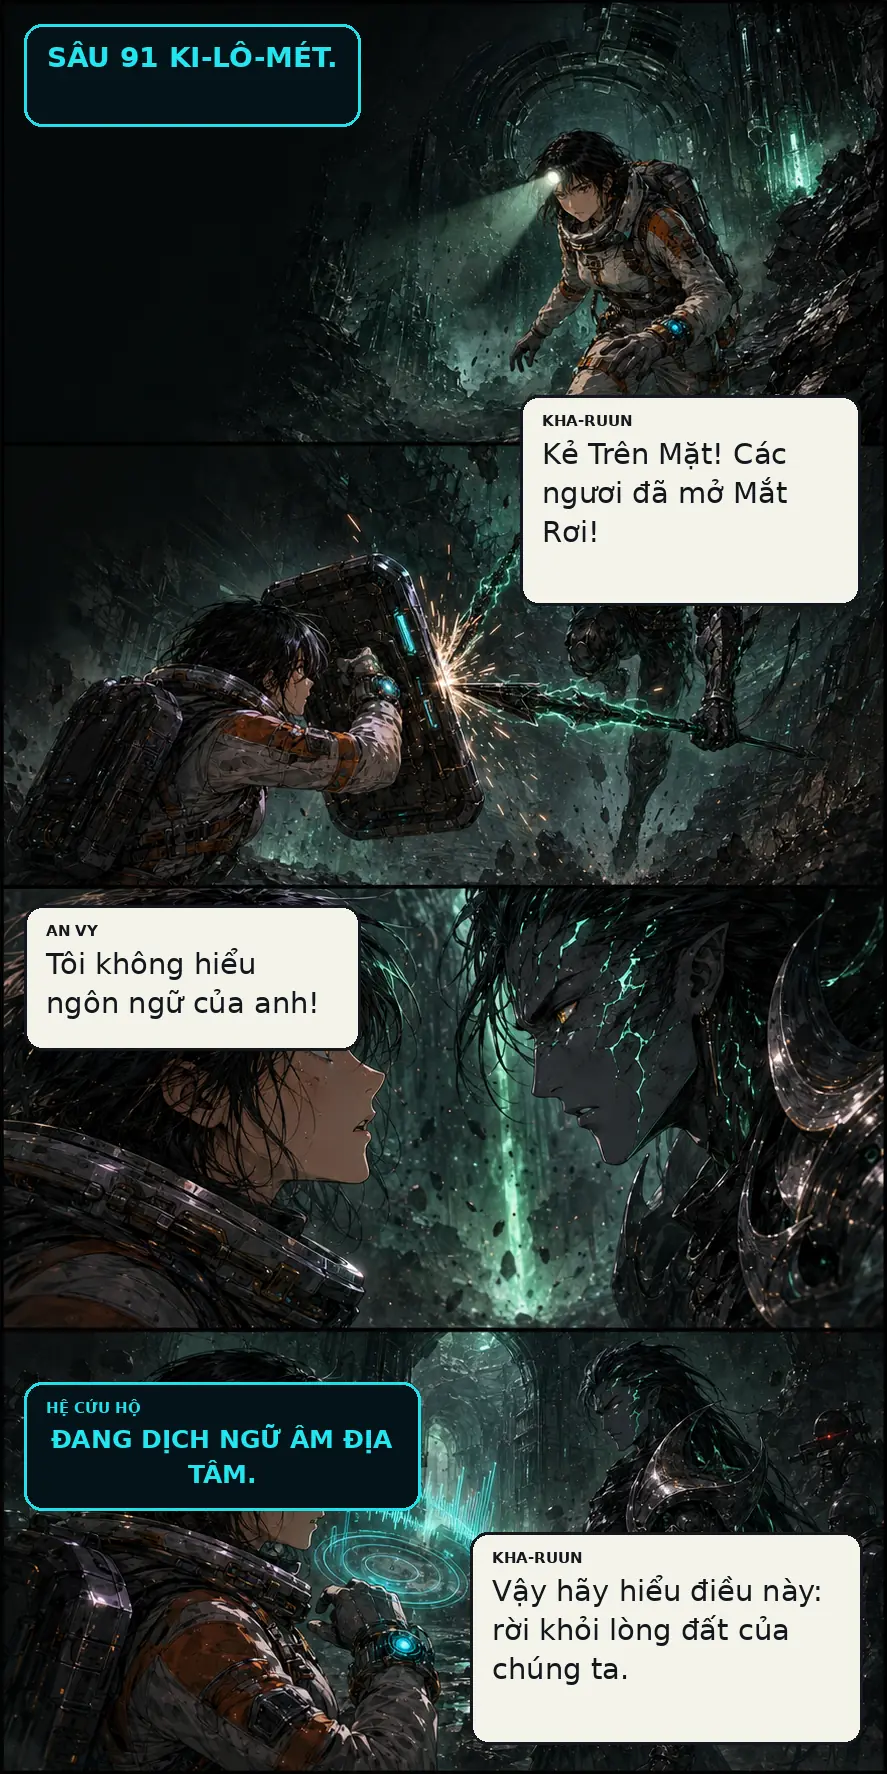
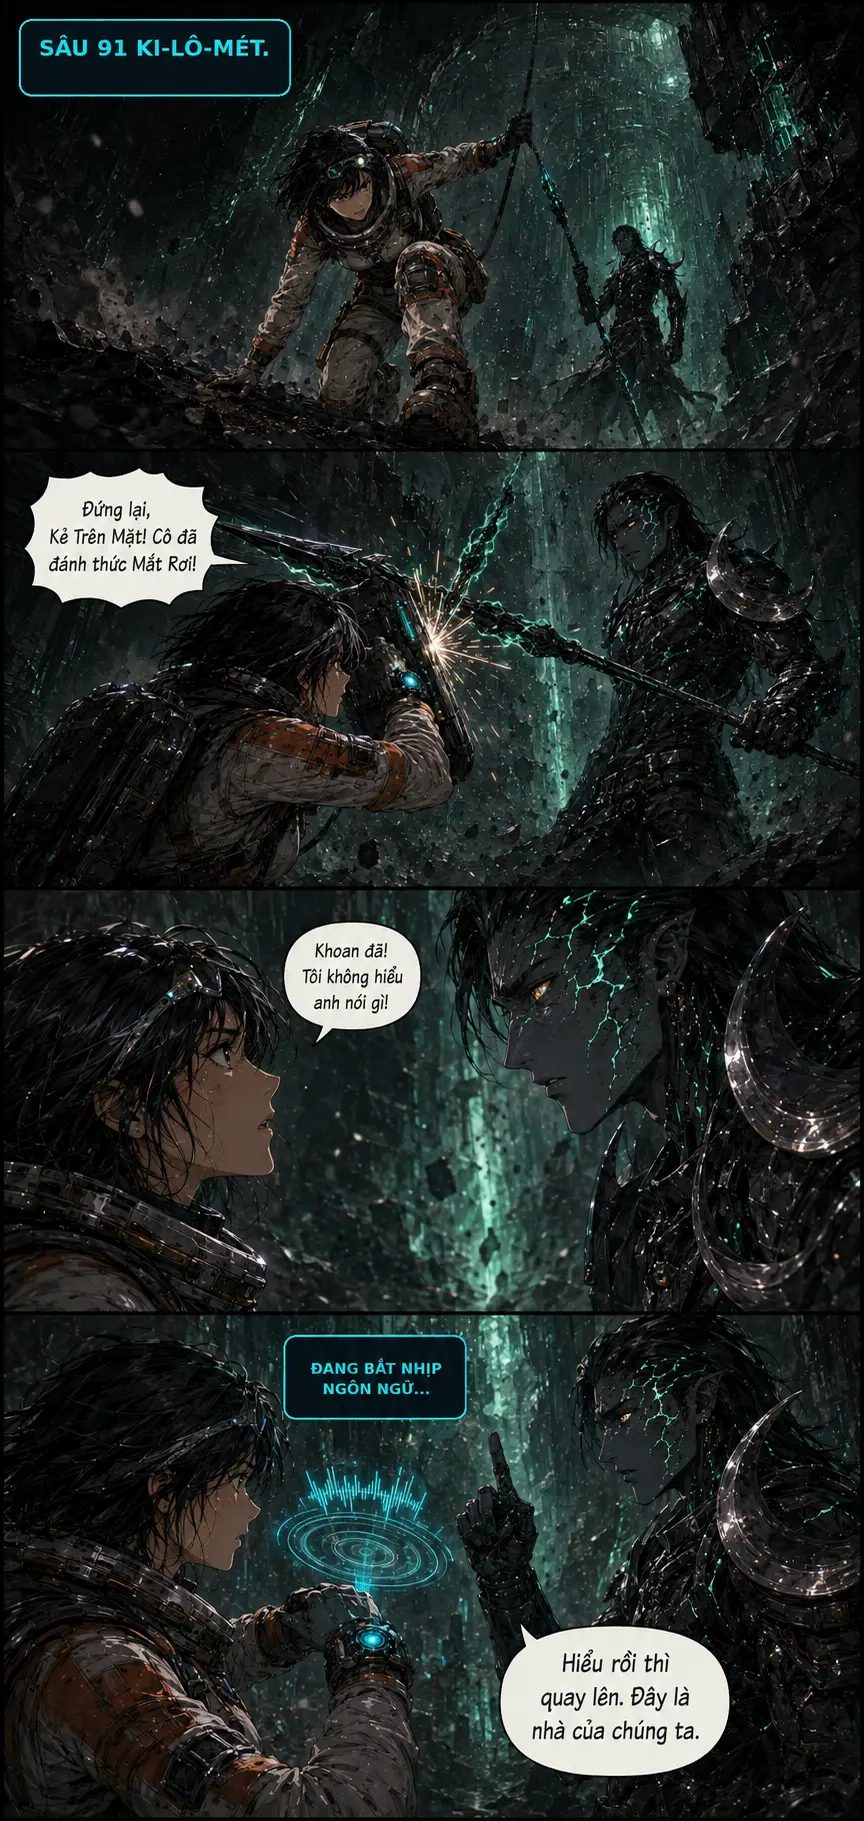
Làm tự nhiên thoại trang 3-4 Vết Thủng 2237

diff --git a/vet-thung-2237/story-data.js b/vet-thung-2237/story-data.js
@@ -5,8 +5,8 @@ const STORY = {
   pages: [
     {number: 1, image: 'assets/pages/page-01.webp?v=dialogue-20260811', title: 'Thứ rơi ngoài bản đồ sao', alt: 'Thiên thể Mắt Rơi xuyên qua thành phố năm 2237 và An Vy gọi Trung tâm'},
     {number: 2, image: 'assets/pages/page-02.webp?v=dialogue-20260811', title: 'Ba nhịp', alt: 'An Vy bất chấp lệnh dừng và nghe ba nhịp từ dưới hố sâu'},
-    {number: 3, image: 'assets/pages/page-03.webp', title: 'Kẻ Trên Mặt', alt: 'An Vy chạm trán chiến binh Kha-Ruun'},
-    {number: 4, image: 'assets/pages/page-04.webp', title: 'Bầu trời thứ hai', alt: 'Kha-Ruun đưa An Vy nhìn thấy Nham Cung'},
+    {number: 3, image: 'assets/pages/page-03.webp?v=dialogue-20260811-p34', title: 'Kẻ Trên Mặt', alt: 'An Vy chạm trán Kha-Ruun ở độ sâu 91 ki-lô-mét'},
+    {number: 4, image: 'assets/pages/page-04.webp?v=dialogue-20260811-p34', title: 'Bầu trời thứ hai', alt: 'Kha-Ruun cứu An Vy trước khi Nham Cung hiện ra'},
     {number: 5, image: 'assets/pages/page-05.webp', title: 'Nham Cung báo động', alt: 'An Vy và Kha-Ruun bị đưa ra trước Hội Đồng Nham'},
     {number: 6, image: 'assets/pages/page-06.webp', title: 'Lệnh xuyên vỏ', alt: 'Chỉ huy Bách kích hoạt đầu đạn địa tầng trên mặt đất'},
     {number: 7, image: 'assets/pages/page-07.webp', title: 'Ký ức trong đá', alt: 'An Vy và Kha-Ruun nhìn thấy ký ức Mắt Rơi được phóng khỏi Nham Cung'},

diff --git a/vet-thung-2237/index.html b/vet-thung-2237/index.html
@@ -75,7 +75,7 @@
     </nav>
   </section>
 
-  <script src="story-data.js?v=dialogue-20260811"></script>
+  <script src="story-data.js?v=dialogue-20260811-p34"></script>
   <script src="app.js"></script>
 </body>
 </html>

diff --git a/vet-thung-2237/docs/qa-log.md b/vet-thung-2237/docs/qa-log.md
@@ -33,7 +33,16 @@
 - Đã bỏ nhãn tên người nói khỏi bong bóng; đuôi thoại và ngữ cảnh khung tranh xác định người đang nói.
 - Đã đối chiếu chính tả, dấu tiếng Việt, thứ tự sự kiện, màu trang phục và thiết bị cứu hộ cyan của An Vy.
 
+## Audit thoại tự nhiên trang 3–4 — 11/08/2026
+
+- Đã thay mới trang 3 “Kẻ Trên Mặt” và trang 4 “Bầu trời thứ hai” bằng ảnh gen hoàn chỉnh cùng bong bóng thoại tiếng Việt.
+- Kha-Ruun nói ngắn theo tâm thế người đang bảo vệ quê hương; An Vy phản ứng trực tiếp sau khi bị chặn và được cứu.
+- Đã bỏ nhãn tên, hộp thoại kiểu giao diện và các câu giải thích mang giọng báo cáo.
+- Đã giữ Kha-Ruun ở tỷ lệ người cao, gầy khỏe, khuôn mặt thanh, mắt hổ phách, vân xanh lục và giáp vai lưỡi liềm.
+- Đã giữ thiết bị cyan trên cổ tay phải An Vy và chuyển cảnh liên tục từ lần tiếp xúc đầu tiên sang toàn cảnh Nham Cung.
+- Đã đối chiếu sáu câu thoại/lời dẫn trang 4 và năm mục chữ trang 3; không phát hiện sai dấu hoặc chữ bị cắt.
+
 ## Trạng thái
 
 - Chương 1 hoàn tất: 12/12 trang.
-- Lượt audit tiếp theo tiếp tục làm mềm thoại và thay trang 3–4 theo chuẩn bong bóng thoại mới.
+- Lượt audit tiếp theo tiếp tục làm mềm thoại và thay trang 5–6 theo chuẩn bong bóng thoại mới.

diff --git a/vet-thung-2237/chapters/chuong-01.md b/vet-thung-2237/chapters/chuong-01.md
@@ -17,18 +17,20 @@
 
 ### Trang 3 — Kẻ Trên Mặt
 
-- Kha-Ruun: “Kẻ Trên Mặt! Các ngươi đã mở Mắt Rơi!”
-- An Vy: “Tôi không hiểu ngôn ngữ của anh!”
-- Hệ cứu hộ: “Đang dịch ngữ âm địa tâm.”
-- Kha-Ruun: “Vậy hãy hiểu điều này: rời khỏi lòng đất của chúng ta.”
+- Dẫn: “Sâu 91 ki-lô-mét.”
+- Kha-Ruun: “Đứng lại, Kẻ Trên Mặt! Cô đã đánh thức Mắt Rơi!”
+- An Vy: “Khoan đã! Tôi không hiểu anh nói gì!”
+- Hệ cứu hộ: “Đang bắt nhịp ngôn ngữ...”
+- Kha-Ruun: “Hiểu rồi thì quay lên. Đây là nhà của chúng ta.”
 
 ### Trang 4 — Bầu trời thứ hai
 
-- An Vy: “Nếu muốn giết tôi, anh đã không kéo tôi khỏi vết nứt.”
-- Kha-Ruun: “Ta cứu cái khóa trên cổ tay cô.”
-- Dẫn: “Sâu 91 ki-lô-mét, An Vy nhìn thấy bầu trời thứ hai của Trái Đất.”
-- An Vy: “Nó chỉ là máy cứu hộ.”
-- Kha-Ruun: “Không. Nó là thứ thiên thạch đang gọi.”
+- Hiệu ứng: “Rắc—ầm!”
+- An Vy: “Anh vừa cứu tôi. Vậy hạ mũi thương xuống được chứ?”
+- Kha-Ruun: “Ta cứu thứ đang sáng trên tay cô.”
+- Dẫn: “Ở độ sâu 91 ki-lô-mét, Trái Đất có một bầu trời khác.”
+- An Vy: “Cái này à? Chỉ là máy cứu hộ.”
+- Kha-Ruun: “Không. Mắt Rơi đang gọi nó.”
 
 ### Trang 5 — Nham Cung báo động
 
